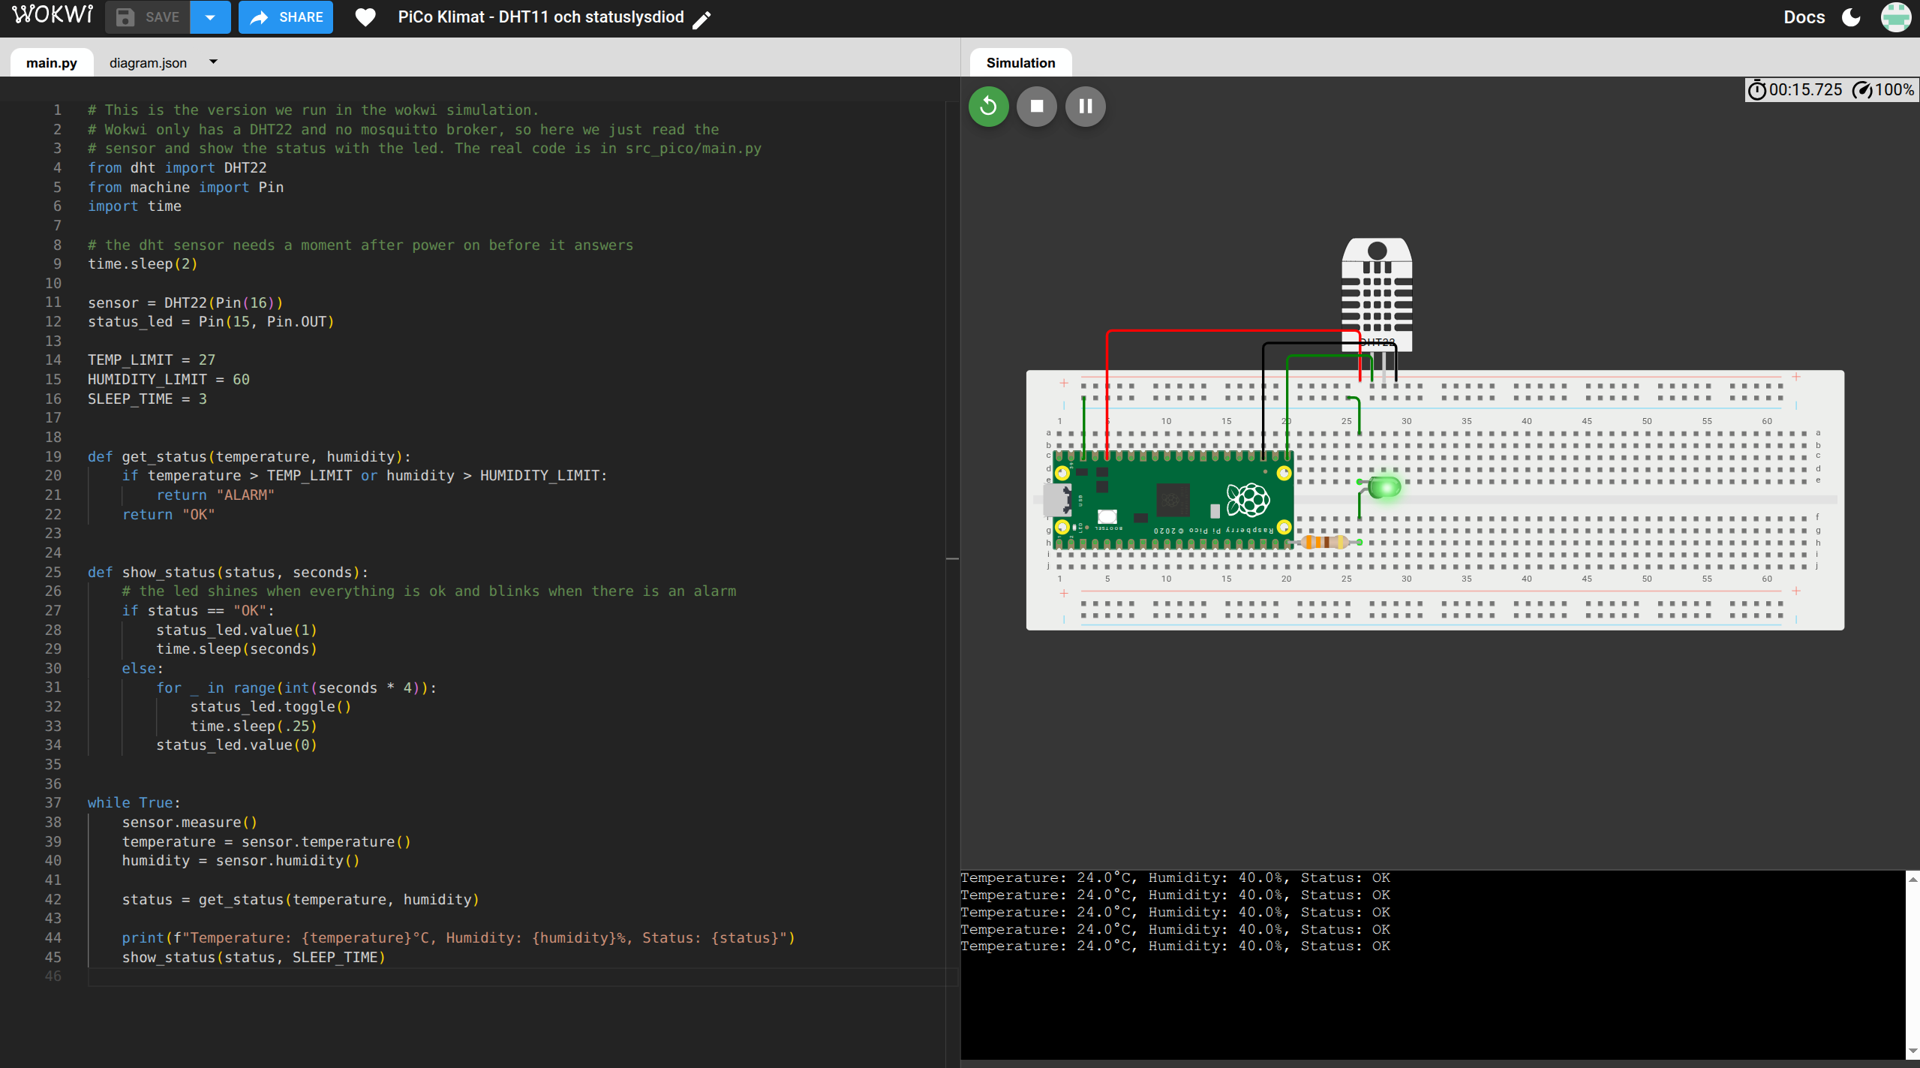
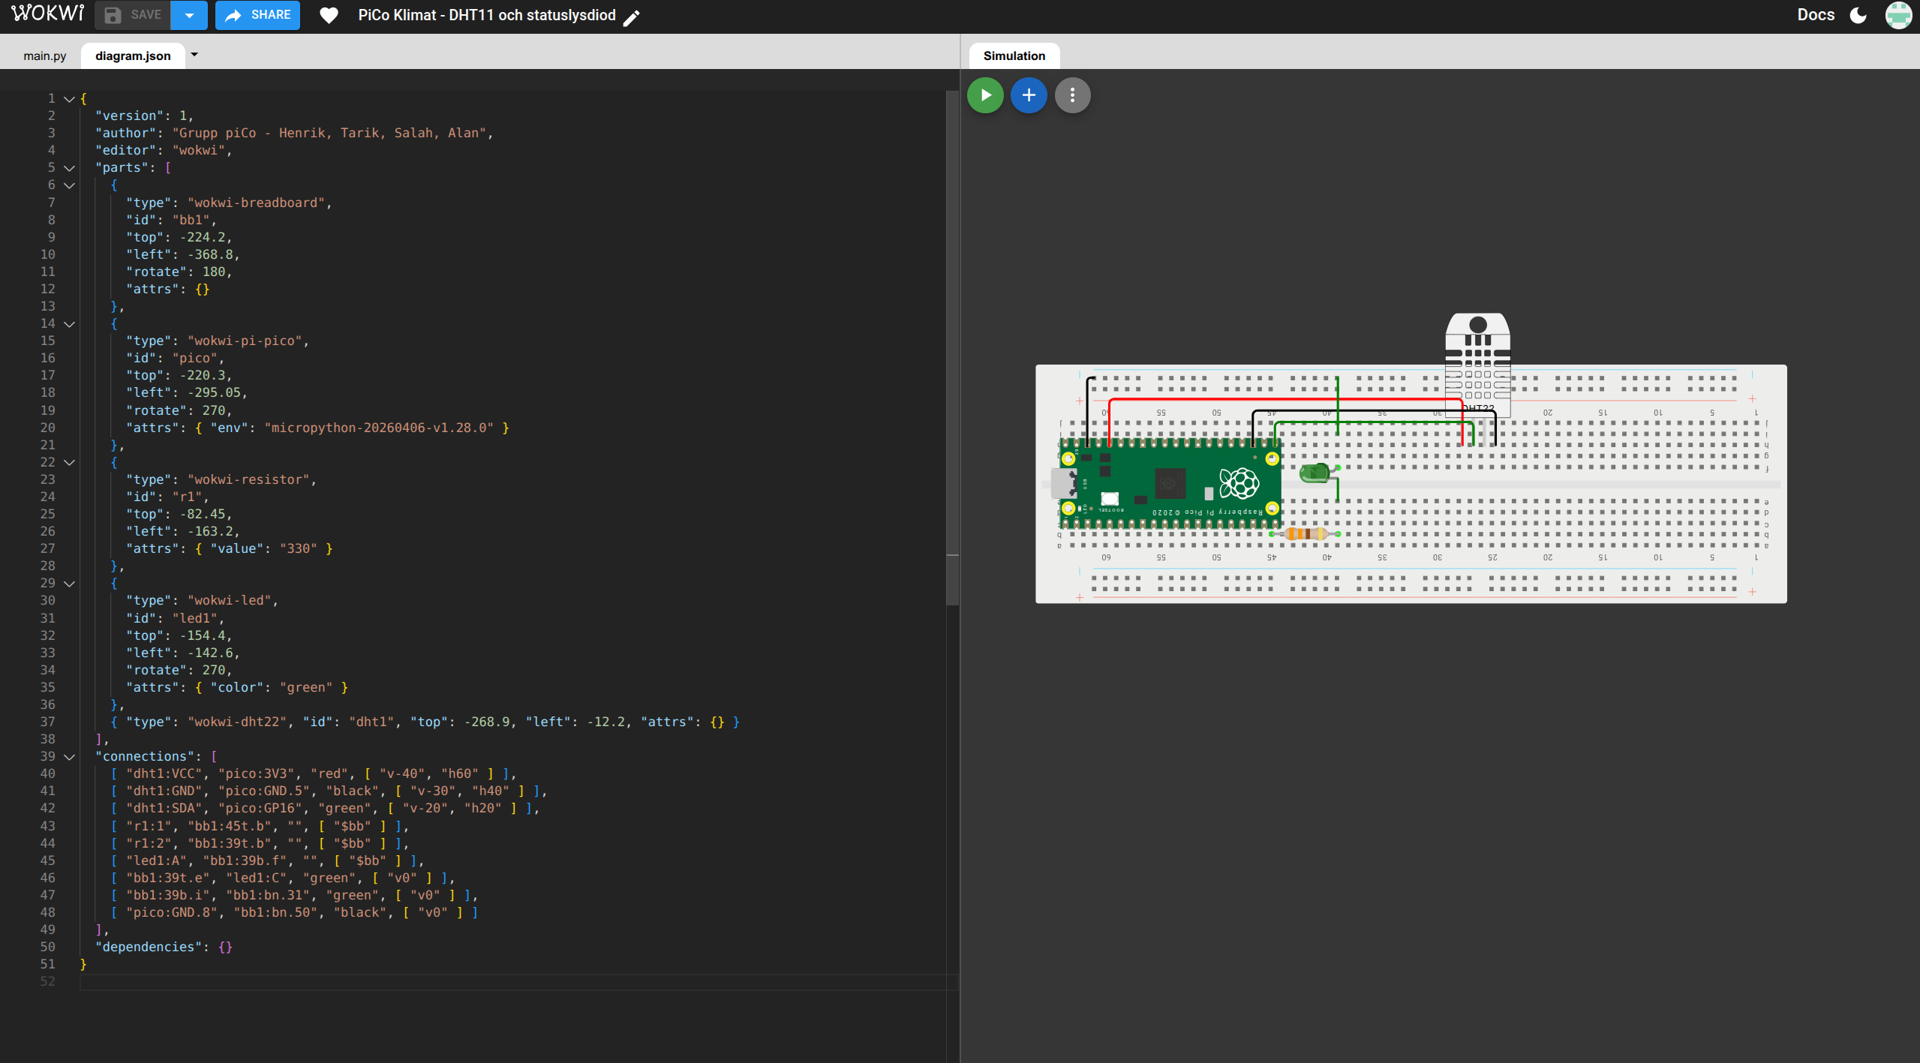
new wokwi screenshot that matches the diagram in the repo

diff --git a/README.md b/README.md
@@ -114,7 +114,8 @@ lysdioden är exakt densamma som på riktig hårdvara.
 
 ![wokwi-simuleringen](bilder/wokwi.png)
 
-Simuleringen kör samma logik som den riktiga enheten och skriver ut mätvärdena i konsolen.
+Kopplingen i Wokwi: Pico 2 W på kopplingsdäcket med sensorn och statuslysdioden, samma
+uppsättning som på vår riktiga board.
 
 ## Så kör man projektet
 
